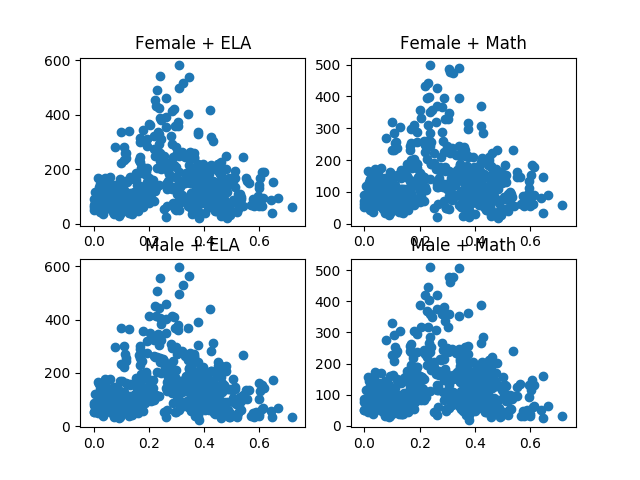
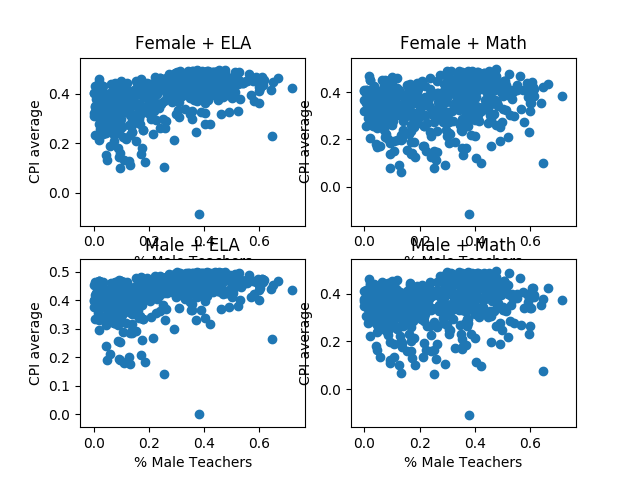
Sage is cute

diff --git a/analysis.py b/analysis.py
@@ -6,9 +6,6 @@ from sklearn.linear_model import LinearRegression
 def do(g):
 	# print('-----------------------------------------------------------')
 	# print(g.head())
-	# subject = g.loc[:,'subject'][0]
-	# gender = g.gender[0]
-	# year = int(g.year[0])
 	value = (g.student_count * g.CPI).mean()
 	return value
 
@@ -27,7 +24,7 @@ totalStudentData = pd.read_csv('cleanedData/totalStudentData.csv')
 
 
 #F>M, E>M
-lst = totalStudentData.groupby(['gender','subject','school_code']).apply(lambda frame: do(frame))
+lst = totalStudentData.groupby(['gender','subject','school_code']).apply(lambda frame: frame.CPI.mean() - .5 )
 obj = [lst[i:i+548] for i in range(0, len(lst), 548)]
 print(obj)
 teach = totalTeacherData.groupby('school_code').apply(lambda frame: fuc(frame))
@@ -36,18 +33,26 @@ print(teach.head(teach.shape[0]))
 plt.subplot(221)
 plt.title('Female + ELA')
 plt.scatter(teach,obj[0])
+plt.xlabel('% Male Teachers')
+plt.ylabel('CPI average')
 
 plt.subplot(222)
 plt.title('Female + Math')
 plt.scatter(teach,obj[1])
+plt.xlabel('% Male Teachers')
+plt.ylabel('CPI average')
 
 plt.subplot(223)
 plt.title('Male + ELA')
 plt.scatter(teach,obj[2])
+plt.xlabel('% Male Teachers')
+plt.ylabel('CPI average')
 
 plt.subplot(224)
 plt.title('Male + Math')
 plt.scatter(teach,obj[3])
+plt.xlabel('% Male Teachers')
+plt.ylabel('CPI average')
 
 plt.savefig('result.png')
 
